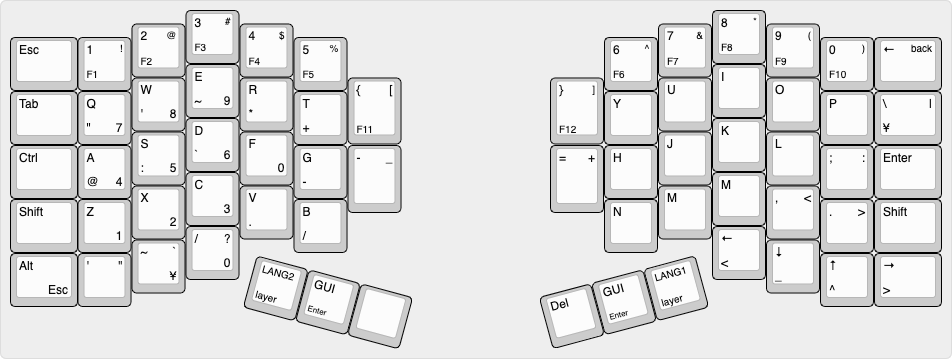
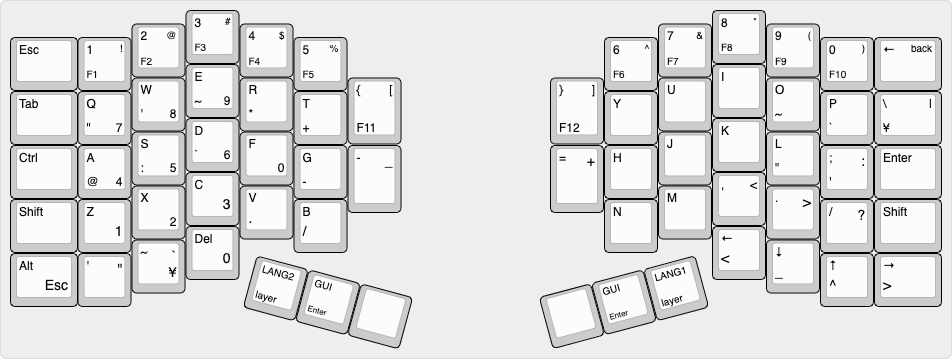
[columner] kudox-columner keyboard kayout. (#28)

diff --git a/kudox-columner/README.md b/kudox-columner/README.md
@@ -17,4 +17,4 @@ It is different from Kudox Keyboard that `Column-` staggered and `Row-` staggere
 <img src="../img/kudox-columner-layout-rev1.png" alt="Kudox Columner rev1.0 layout"/>
 </p>
 
-[KLE Layout permalink](http://www.keyboard-layout-editor.com/##@_name=kudox-columner&author=kumaokobo%3B&@_x:3.25&f2:2%3B&=3%0AF3%0A%23&_x:8.75%3B&=8%0AF8%0A*%3B&@_y:-0.75&x:2.25%3B&=2%0AF2%0A%2F@&_x:1%3B&=4%0AF4%0A$&_x:6.75%3B&=7%0AF7%0A%2F&&_x:1%3B&=9%0AF9%0A(%3B&@_y:-0.75&w:1.25%3B&=Esc&=1%0AF1%0A!&_x:3%3B&=5%0AF5%0A%25&_x:4.75%3B&=6%0AF6%0A%5E&_x:3%3B&=0%0AF10%0A)&_w:1.25%3B&=%E2%86%90%0A%0Aback%3B&@_y:-0.5&x:3.25&f:3%3B&=E%0A~%0A%0A9&_x:8.75%3B&=I%3B&@_y:-0.75&x:2.25&f:3%3B&=W%0A'%0A%0A8&_x:1&f:3%3B&=R%0A*&_x:1&f2:2&h:1.25%3B&=%7B%0AF11%0A%5B&_x:2.75&h:1.25%3B&=%7D%0AF12%0A%5D&_x:1%3B&=U&_x:1%3B&=O%3B&@_y:-0.75&w:1.25%3B&=Tab&_f:3%3B&=Q%0A%22%0A%0A7&_x:3&f:3%3B&=T%0A+&_x:4.75%3B&=Y&_x:3%3B&=P&_f:3&w:1.25%3B&=%5C%0A%C2%A5%0A%7C%3B&@_y:-0.5&x:3.25&f:3%3B&=D%0A%60%0A%0A6&_x:8.75%3B&=K%3B&@_y:-0.75&x:2.25&f:3%3B&=S%0A%2F:%0A%0A5&_x:1&f:3%3B&=F%0A%0A%0A0&_x:6.75%3B&=J&_x:1%3B&=L%3B&@_y:-0.75&w:1.25%3B&=Ctrl&_f:3%3B&=A%0A%2F@%0A%0A4&_x:3&f:3%3B&=G%0A-&_f2=undefined&h:1.25%3B&=-%0A%0A%2F_&_x:2.75&h:1.25%3B&=%2F=%0A%0A+&=H&_x:3%3B&=%2F%3B%0A%0A%2F:&_w:1.25%3B&=Enter%3B&@_y:-0.5&x:3.25%3B&=C%0A%0A%0A3&_x:8.75%3B&=M%3B&@_y:-0.75&x:2.25%3B&=X%0A%0A%0A2&_x:1%3B&=V%0A.&_x:6.75%3B&=M&_x:1%3B&=,%0A%0A%3C%3B&@_y:-0.75&w:1.25%3B&=Shift&=Z%0A%0A%0A1&_x:3%3B&=B%0A%2F%2F&_x:4.75%3B&=N&_x:3%3B&=.%0A%0A%3E&_w:1.25%3B&=Shift%3B&@_y:-0.5&x:3.25%3B&=%2F%2F%0A%0A%3F%0A0&_x:8.75%3B&=%E2%86%90%0A%3C%3B&@_y:-0.75&x:2.25%3B&=~%0A%0A%60%0A%C2%A5&_x:10.75%3B&=%E2%86%93%0A%2F_%3B&@_y:-0.75&w:1.25%3B&=Alt%0A%0A%0AEsc&='%0A%0A%22&_x:12.75%3B&=%E2%86%91%0A%5E&_w:1.25%3B&=%E2%86%92%0A%3E%3B&@_r:15&rx:5&y:4.5&x:0.75&fa@:2&:2%3B%3B&=LANG2%0Alayer&_f2:1%3B&=GUI%0AEnter&_a:7%3B&=%3B&@_r:-15&rx:12.25&y:4.5&x:-3.75&a:4%3B&=Del&=GUI%0AEnter&_fa@:2&:2%3B%3B&=LANG1%0Alayer)
+[KLE Layout permalink](http://www.keyboard-layout-editor.com/##@_name=kudox-columner&author=kumaokobo%3B&@_x:3.25&f2:2%3B&=3%0AF3%0A%23&_x:8.75%3B&=8%0AF8%0A*%3B&@_y:-0.75&x:2.25%3B&=2%0AF2%0A%2F@&_x:1%3B&=4%0AF4%0A$&_x:6.75%3B&=7%0AF7%0A%2F&&_x:1%3B&=9%0AF9%0A(%3B&@_y:-0.75&w:1.25%3B&=Esc&=1%0AF1%0A!&_x:3%3B&=5%0AF5%0A%25&_x:4.75%3B&=6%0AF6%0A%5E&_x:3%3B&=0%0AF10%0A)&_w:1.25%3B&=%E2%86%90%0A%0Aback%3B&@_y:-0.5&x:3.25&f:3%3B&=E%0A~%0A%0A9&_x:8.75%3B&=I%3B&@_y:-0.75&x:2.25&f:3%3B&=W%0A'%0A%0A8&_x:1&f:3%3B&=R%0A*&_x:1&f:3&h:1.25%3B&=%7B%0AF11%0A%5B&_x:2.75&f:3&h:1.25%3B&=%7D%0AF12%0A%5D&_x:1%3B&=U&_x:1&f:3%3B&=O%0A~%3B&@_y:-0.75&w:1.25%3B&=Tab&_f:3%3B&=Q%0A%22%0A%0A7&_x:3&f:3%3B&=T%0A+&_x:4.75%3B&=Y&_x:3&f:3%3B&=P%0A%60&_f:3&w:1.25%3B&=%5C%0A%C2%A5%0A%7C%3B&@_y:-0.5&x:3.25&f:3%3B&=D%0A%60%0A%0A6&_x:8.75%3B&=K%3B&@_y:-0.75&x:2.25&f:3%3B&=S%0A%2F:%0A%0A5&_x:1&f:3%3B&=F%0A%0A%0A0&_x:6.75%3B&=J&_x:1&f:3%3B&=L%0A%22%3B&@_y:-0.75&w:1.25%3B&=Ctrl&_f:3%3B&=A%0A%2F@%0A%0A4&_x:3&f:3%3B&=G%0A-&_fa@:0&:2&=undefined%3B&h:1.25%3B&=-%0A%0A%2F_&_x:2.75&h:1.25%3B&=%2F=%0A%0A+&=H&_x:3&fa@:0&:0&=undefined%3B%3B&=%2F%3B%0A'%0A%2F:&_w:1.25%3B&=Enter%3B&@_y:-0.5&x:3.25&fa@:0&:0&=undefined&=undefined%3B%3B&=C%0A%0A%0A3&_x:8.75&f:3%3B&=,%0A%0A%3C%3B&@_y:-0.75&x:2.25&f:3%3B&=X%0A%0A%0A2&_x:1&f2=undefined%3B&=V%0A.&_x:6.75%3B&=M&_x:1%3B&=.%0A%0A%3E%3B&@_y:-0.75&w:1.25%3B&=Shift&=Z%0A%0A%0A1&_x:3%3B&=B%0A%2F%2F&_x:4.75%3B&=N&_x:3%3B&=%2F%2F%0A%0A%3F&_w:1.25%3B&=Shift%3B&@_y:-0.5&x:3.25%3B&=Del%0A%0A%0A0&_x:8.75%3B&=%E2%86%90%0A%3C%3B&@_y:-0.75&x:2.25%3B&=~%0A%0A%60%0A%C2%A5&_x:10.75%3B&=%E2%86%93%0A%2F_%3B&@_y:-0.75&w:1.25%3B&=Alt%0A%0A%0AEsc&='%0A%0A%22&_x:12.75%3B&=%E2%86%91%0A%5E&_w:1.25%3B&=%E2%86%92%0A%3E%3B&@_r:15&rx:5&y:4.5&x:0.75&fa@:2&:2%3B%3B&=LANG2%0Alayer&_fa@:2&:1%3B%3B&=GUI%0AEnter&_a:7%3B&=%3B&@_r:-15&rx:12.25&y:4.5&x:-3.75%3B&=&_a:4%3B&=GUI%0AEnter&_fa@:2&:2%3B%3B&=LANG1%0Alayer)
